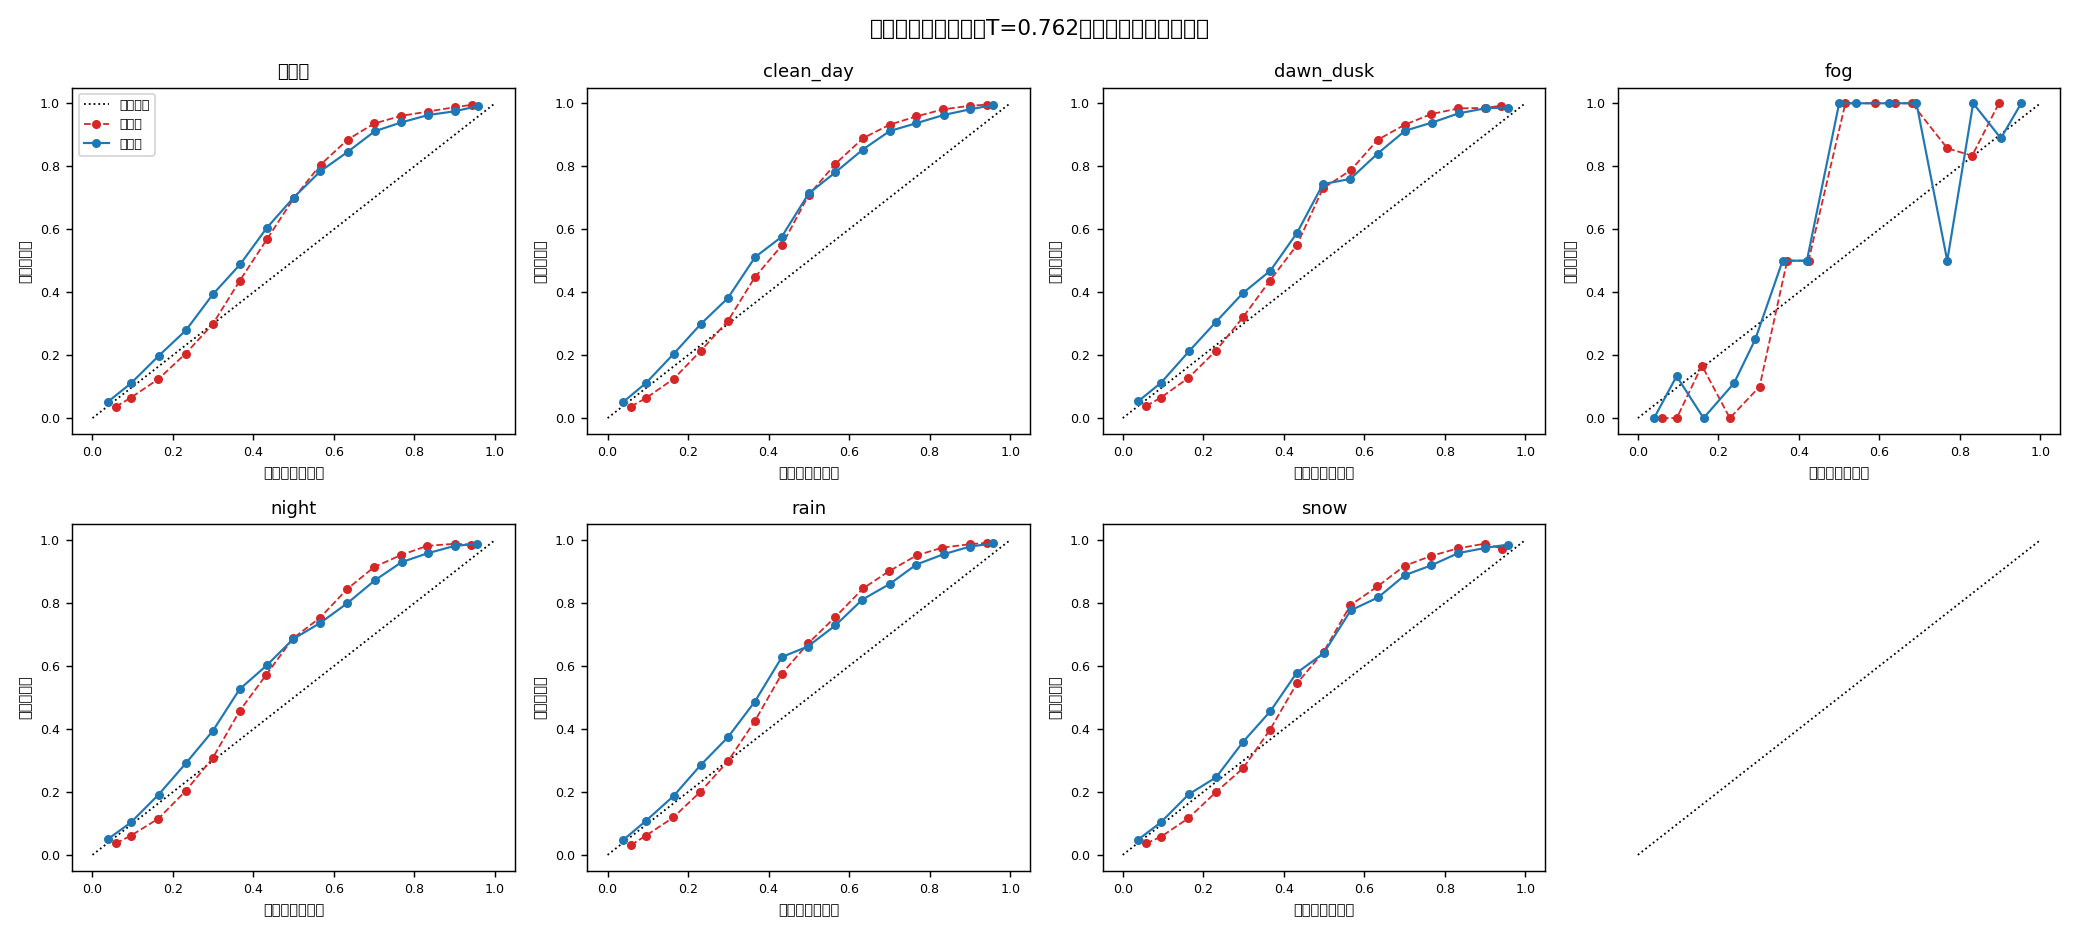
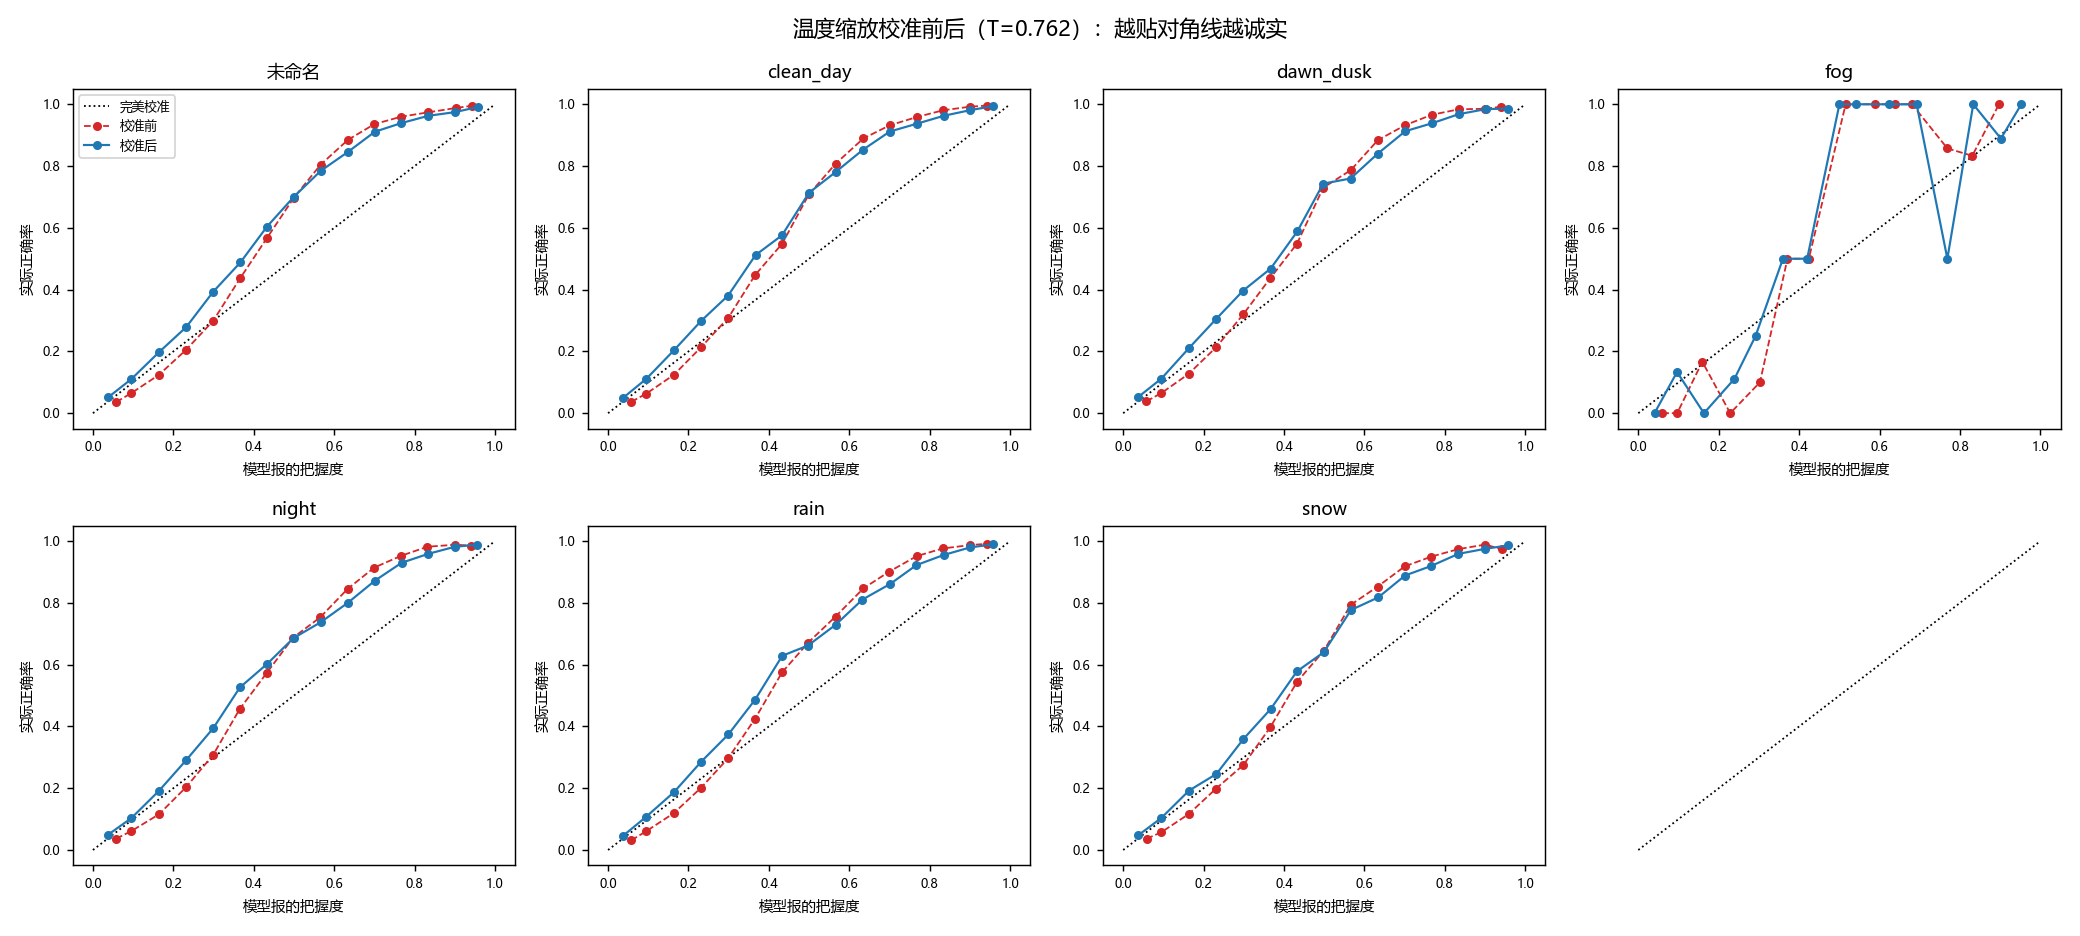
Fix CJK tofu in reliability plots: use Microsoft YaHei/SimHei font stack, regenerate m0+m1

diff --git a/src/rvkit/calibration/calibrate.py b/src/rvkit/calibration/calibrate.py
@@ -197,6 +197,10 @@ def _reliability_plot(curves, t, png_path):
     import matplotlib
     matplotlib.use("Agg")
     import matplotlib.pyplot as plt
+    # matplotlib 默认的 DejaVu Sans 不含中文字形（图上全是方框）——
+    # 指定 Windows 自带的中文字体，找不到时逐个回退
+    plt.rcParams["font.sans-serif"] = ["Microsoft YaHei", "SimHei", "DejaVu Sans"]
+    plt.rcParams["axes.unicode_minus"] = False  # 修负号显示
 
     conds = list(curves)
     n = len(conds)
